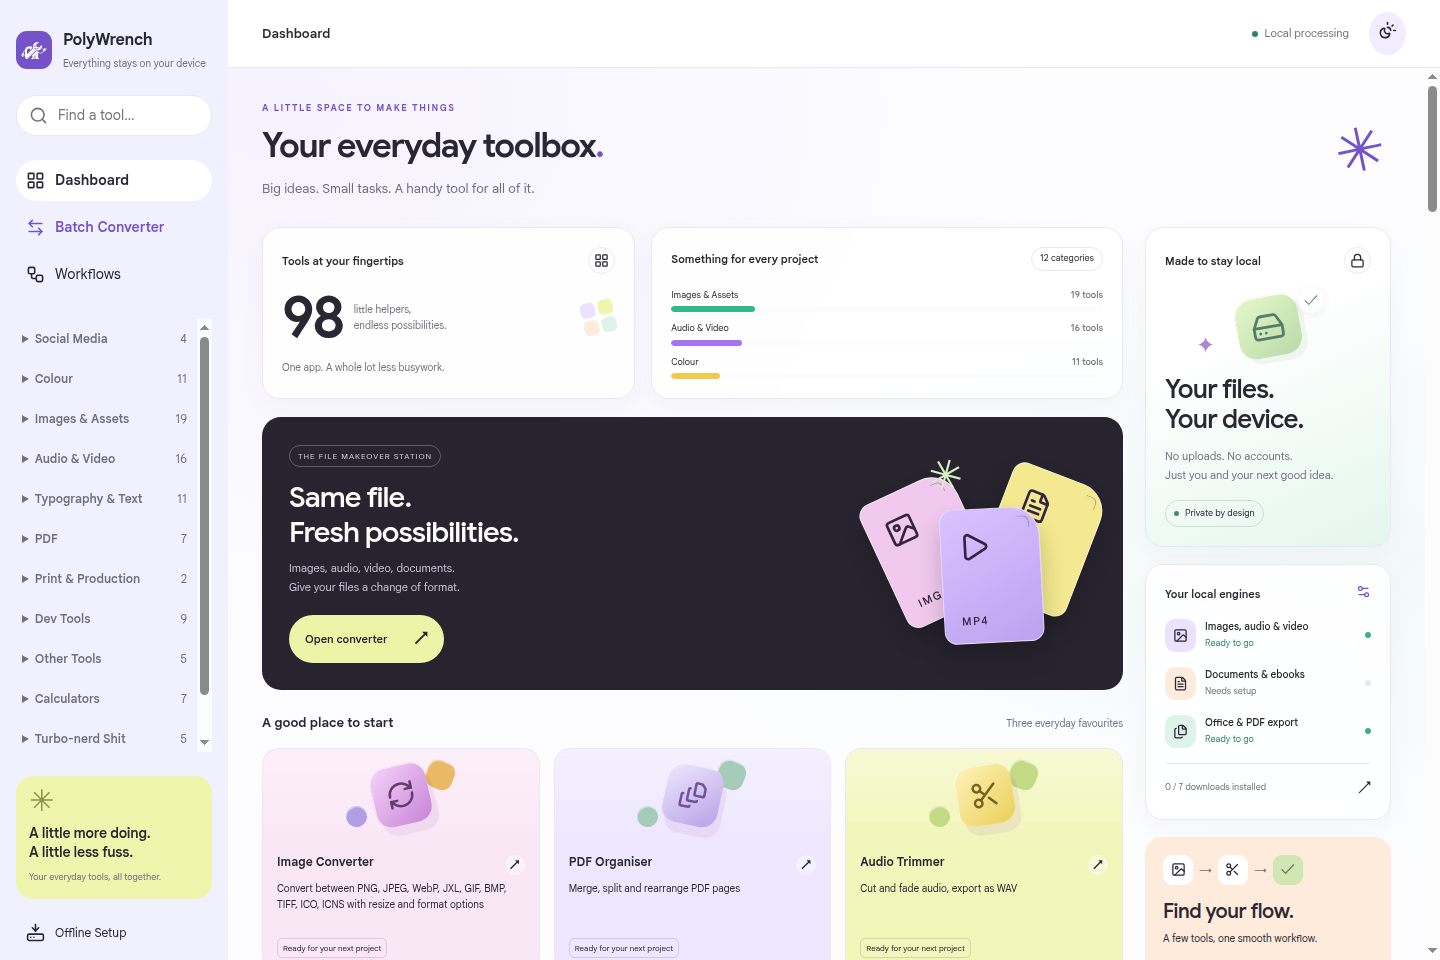
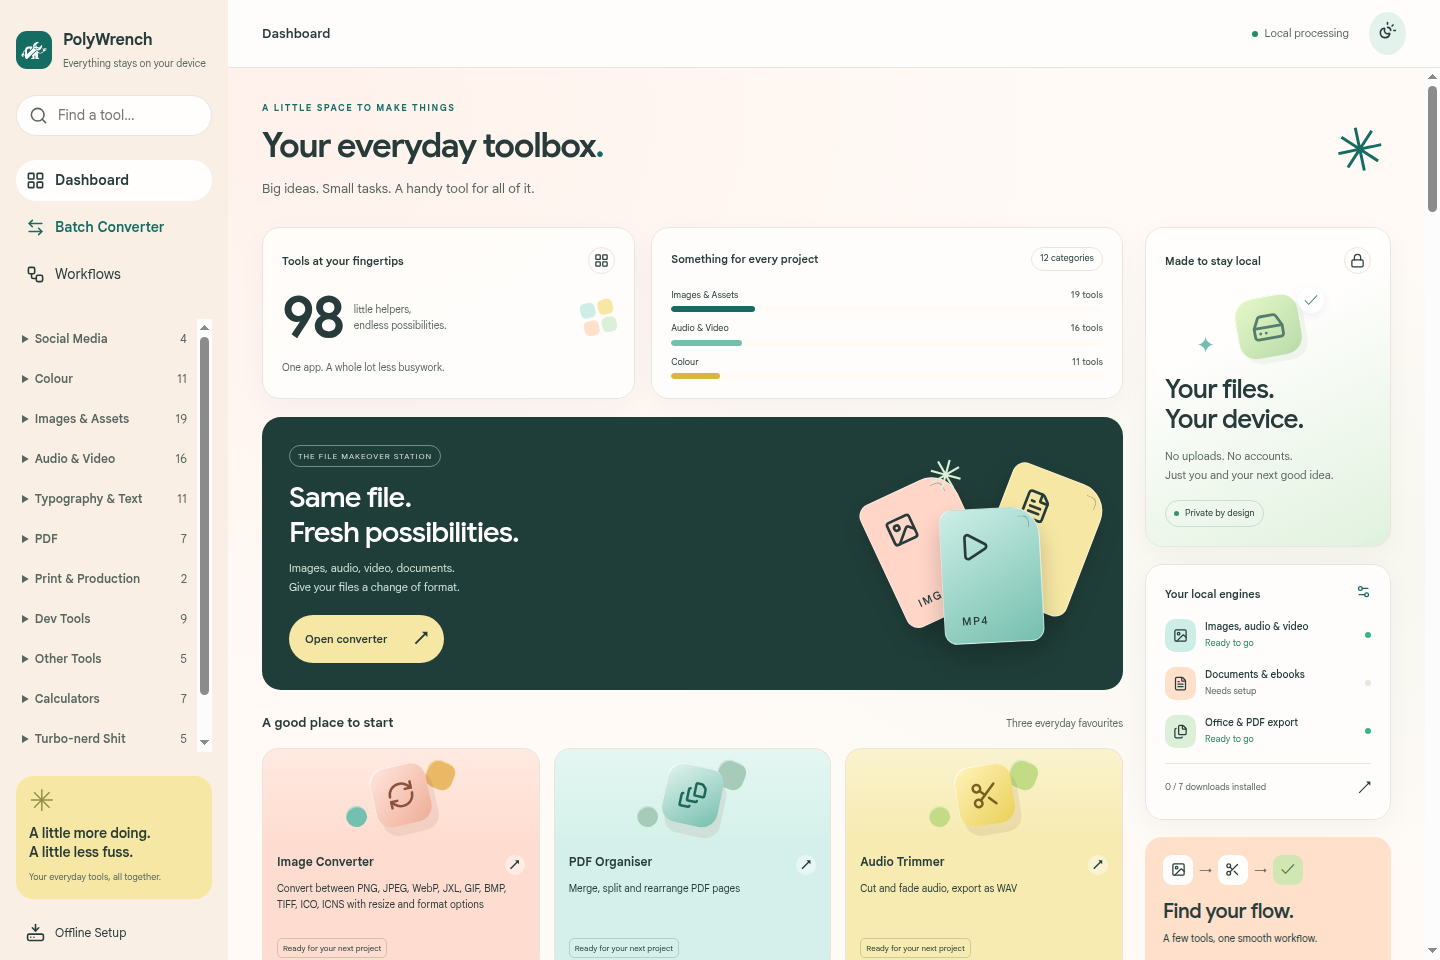
Apply the selected Peach and Teal palette in PolyWrench 0.1.3

diff --git a/app/components/desktop-workspace.css b/app/components/desktop-workspace.css
@@ -1,6 +1,6 @@
 /* Soft surfaces keep the workspace quiet; colour belongs to the tools. */
-:root { --lg-bg: #fdfdff; --lg-panel: #fff; --lg-ink: #292732; --lg-muted: #716f7d; --lg-line: #e9e7ef; --lg-accent: #7353c7; --lg-tint: #f1ecff; --lg-sidebar: #efedff; --lg-purple: #eae2ff; --lg-pink: #f9e2f4; --lg-lime: #f0f5ae; --lg-mint: #def4e9; --lg-peach: #ffebdc; --canon-segment-font: Iosevka, monospace; }
-:root.dark { --lg-bg: #1b1922; --lg-panel: #25222e; --lg-ink: #f2eff8; --lg-muted: #b5afc3; --lg-line: #3a3546; --lg-accent: #c6adff; --lg-tint: #373047; --lg-sidebar: #292538; --lg-purple: #3c3155; --lg-pink: #4a3046; --lg-lime: #42482b; --lg-mint: #2b443b; --lg-peach: #4b382e; }
+:root { --lg-bg: #fffaf6; --lg-panel: #fffefd; --lg-ink: #273c3a; --lg-muted: #57665f; --lg-line: #e9e4dc; --lg-accent: #146c63; --lg-tint: #e4f2ec; --lg-sidebar: #f9ece1; --lg-purple: #cdeee7; --lg-pink: #ffd6c8; --lg-lime: #f6e8a4; --lg-mint: #dbefd9; --lg-peach: #ffe0cb; --canon-segment-font: Iosevka, monospace; }
+:root.dark { --lg-bg: #17211f; --lg-panel: #202c2a; --lg-ink: #f3eee6; --lg-muted: #b6c3bc; --lg-line: #3c4a44; --lg-accent: #8fd3c2; --lg-tint: #293f38; --lg-sidebar: #24302a; --lg-purple: #294b43; --lg-pink: #523c33; --lg-lime: #49462c; --lg-mint: #304638; --lg-peach: #543d30; }
 .lg-app { display: grid; grid-template-columns: 228px minmax(0, 1fr); height: 100dvh; color: var(--lg-ink); background: var(--lg-bg); font-family: system-ui, sans-serif; font-size: 14px; letter-spacing: normal; }
 .lg-app svg { width: 19px; height: 19px; flex-shrink: 0; }
 .lg-app button, .lg-app select, .lg-app input { font: inherit; }
@@ -10,7 +10,7 @@
 .lg-sidebar { display: flex; flex-direction: column; gap: 24px; min-height: 0; padding: 28px 16px 18px; background: var(--lg-sidebar); border-right: 0; }
 .lg-brand { display: flex; gap: 11px; align-items: center; color: var(--lg-ink); text-decoration: none; font-size: 16px; font-weight: 700; }
 .lg-brand small { display: block; font-size: 10px; color: var(--lg-muted); margin-top: 4px; font-weight: 400; }
-.lg-logo { display: grid; place-items: center; width: 36px; height: 38px; border-radius: 11px; background: #7353c7; object-fit: contain; font-size: 24px; }
+.lg-logo { display: grid; place-items: center; width: 36px; height: 38px; border-radius: 11px; background: #146c63; object-fit: contain; font-size: 24px; }
 .lg-search { display: flex; align-items: center; gap: 8px; padding: 10px 12px; background: var(--lg-panel); border: 1px solid var(--lg-line); border-radius: 24px; color: var(--lg-muted); }
 .lg-search input { border: 0; background: transparent; width: 100%; min-width: 0; color: var(--lg-ink); outline-offset: 5px; }
 .lg-primary { display: grid; gap: 6px; }
@@ -128,25 +128,25 @@
 .lg-category-bars strong { font-weight: 500; color: var(--lg-muted); }
 .lg-category-bars progress { display: block; height: 6px; width: 100%; border: 0; border-radius: 6px; overflow: hidden; appearance: none; }
 .lg-category-bars progress::-webkit-progress-bar { background: var(--lg-bg); }
-.lg-category-bars progress::-webkit-progress-value { background: #34b78b; border-radius: 6px; min-width: 8px; }
-.lg-category-bars > div:nth-child(2) progress::-webkit-progress-value { background: #a574ee; }
-.lg-category-bars > div:nth-child(3) progress::-webkit-progress-value { background: #f0c94d; }
-.lg-converter-card { display: flex; position: relative; overflow: hidden; align-items: center; justify-content: space-between; min-height: 250px; padding: 27px; border-radius: 19px; background: #27242f; color: #fff; text-decoration: none; margin-bottom: 26px; }
-.lg-converter-card .lg-small-tag { border-color: #625d6d; color: #d5cfe4; font-size: 8px; letter-spacing: 1px; }
+.lg-category-bars progress::-webkit-progress-value { background: #146c63; border-radius: 6px; min-width: 8px; }
+.lg-category-bars > div:nth-child(2) progress::-webkit-progress-value { background: #75bfae; }
+.lg-category-bars > div:nth-child(3) progress::-webkit-progress-value { background: #d9b73e; }
+.lg-converter-card { display: flex; position: relative; overflow: hidden; align-items: center; justify-content: space-between; min-height: 250px; padding: 27px; border-radius: 19px; background: #203e39; color: #fff; text-decoration: none; margin-bottom: 26px; }
+.lg-converter-card .lg-small-tag { border-color: #6b9185; color: #d1e5da; font-size: 8px; letter-spacing: 1px; }
 .lg-converter-card h2 { font-size: 29px; font-weight: 550; line-height: 1.18; letter-spacing: -.9px; margin: 13px 0 10px; }
-.lg-converter-card p { font-size: 11px; line-height: 1.7; color: #c9c2d6; }
+.lg-converter-card p { font-size: 11px; line-height: 1.7; color: #d1e5da; }
 .lg-converter-copy { position: relative; z-index: 1; }
-.lg-converter-cta { display: flex; align-items: center; justify-content: space-between; width: 155px; background: #eef4a7; border-radius: 24px; padding: 11px 16px; color: #292732; font-size: 11px; font-weight: 600; margin-top: 19px; }
+.lg-converter-cta { display: flex; align-items: center; justify-content: space-between; width: 155px; background: #f6e8a4; border-radius: 24px; padding: 11px 16px; color: #273c3a; font-size: 11px; font-weight: 600; margin-top: 19px; }
 .lg-converter-cta > span { font-size: 17px; }
 .lg-file-art { position: relative; width: 225px; height: 214px; flex-shrink: 0; margin-right: -10px; }
-.lg-art-file { position: absolute; width: 100px; height: 135px; border-radius: 13px 29px 13px 13px; box-shadow: 0 14px 25px #0003; display: flex; flex-direction: column; justify-content: space-between; padding: 21px 17px 14px; color: #332442; border: 1px solid #fff7; }
-.lg-art-file::after { content: ''; position: absolute; top: 8px; right: 9px; width: 12px; height: 12px; border-top: 1px solid #33244255; border-right: 1px solid #33244255; border-radius: 0 7px 0 0; }
+.lg-art-file { position: absolute; width: 100px; height: 135px; border-radius: 13px 29px 13px 13px; box-shadow: 0 14px 25px #0003; display: flex; flex-direction: column; justify-content: space-between; padding: 21px 17px 14px; color: #273c3a; border: 1px solid #fff7; }
+.lg-art-file::after { content: ''; position: absolute; top: 8px; right: 9px; width: 12px; height: 12px; border-top: 1px solid #273c3a55; border-right: 1px solid #273c3a55; border-radius: 0 7px 0 0; }
 .lg-art-file svg { width: 32px; height: 32px; }
 .lg-art-file b { font-size: 11px; font-weight: 500; letter-spacing: 1.5px; }
-.lg-art-file--pink { left: 2px; top: 37px; transform: rotate(-22deg); background: #f2c9ee; }
-.lg-art-file--yellow { left: 106px; top: 27px; transform: rotate(18deg); background: #f4e990; }
-.lg-art-file--purple { left: 61px; top: 66px; transform: rotate(-3deg); background: linear-gradient(150deg, #d8c3ff, #bba2f0); }
-.lg-art-spark { position: absolute; top: -3px; left: 47px; font-size: 42px; color: #d7efc2; transform: rotate(15deg); }
+.lg-art-file--pink { left: 2px; top: 37px; transform: rotate(-22deg); background: #ffd6c8; }
+.lg-art-file--yellow { left: 106px; top: 27px; transform: rotate(18deg); background: #f6e8a4; }
+.lg-art-file--purple { left: 61px; top: 66px; transform: rotate(-3deg); background: linear-gradient(150deg, #cdeee7, #75bfae); }
+.lg-art-spark { position: absolute; top: -3px; left: 47px; font-size: 42px; color: #dbefd9; transform: rotate(15deg); }
 .lg-section-heading { display: flex; align-items: center; justify-content: space-between; gap: 15px; margin-bottom: 17px; }
 .lg-section-heading h2 { font-size: 13px; font-weight: 650; }
 .lg-section-heading > span { font-size: 10px; color: var(--lg-muted); }
@@ -155,11 +155,11 @@
 .lg-quick-card:nth-child(2) { background: var(--lg-purple); }
 .lg-quick-card:nth-child(3) { background: var(--lg-lime); }
 .lg-quick-art { position: relative; height: 92px; display: grid; place-items: center; overflow: hidden; background: linear-gradient(0deg, transparent, #ffffff60); }
-.lg-quick-art > span { display: grid; place-items: center; position: relative; z-index: 1; width: 57px; height: 60px; border-radius: 16px; background: linear-gradient(140deg, #f7d4fa, #c783d6); box-shadow: 5px 10px 0 #a45db31c, inset 1px 1px #fffa; transform: rotate(-13deg); color: #623c72; }
+.lg-quick-art > span { display: grid; place-items: center; position: relative; z-index: 1; width: 57px; height: 60px; border-radius: 16px; background: linear-gradient(140deg, #ffe7de, #efac96); box-shadow: 5px 10px 0 #89533e1c, inset 1px 1px #fffa; transform: rotate(-13deg); color: #89533e; }
 .lg-quick-art svg { width: 30px; height: 30px; }
 .lg-quick-art i { position: absolute; width: 28px; height: 28px; border-radius: 10px; background: #e9b966; transform: rotate(22deg); left: calc(50% + 25px); top: 12px; box-shadow: inset 1px 1px #fff7; }
-.lg-quick-art i:last-child { background: #b29ee4; width: 21px; height: 21px; top: 57px; left: calc(50% - 55px); border-radius: 50%; }
-.lg-quick-card:nth-child(2) .lg-quick-art > span { background: linear-gradient(140deg, #f0e9ff, #b8a1e6); color: #6f5299; transform: rotate(12deg); }
+.lg-quick-art i:last-child { background: #75bfae; width: 21px; height: 21px; top: 57px; left: calc(50% - 55px); border-radius: 50%; }
+.lg-quick-card:nth-child(2) .lg-quick-art > span { background: linear-gradient(140deg, #e4f4ee, #75bfae); color: #1d665b; transform: rotate(12deg); }
 .lg-quick-card:nth-child(2) .lg-quick-art i { background: #a6cbb9; }
 .lg-quick-card:nth-child(3) .lg-quick-art > span { background: linear-gradient(140deg, #fff3bc, #ead057); color: #776020; transform: rotate(-9deg); }
 .lg-quick-card:nth-child(3) .lg-quick-art i { background: #c3db84; }
@@ -167,14 +167,14 @@
 .lg-quick-copy h3 { display: flex; justify-content: space-between; align-items: start; gap: 8px; font-size: 12px; font-weight: 650; }
 .lg-quick-copy h3 > span { display: grid; place-items: center; background: #ffffff70; width: 20px; height: 20px; border-radius: 50%; flex-shrink: 0; }
 .lg-quick-copy p { font-size: 10px; line-height: 1.6; margin-top: 6px; min-height: 48px; }
-.lg-quick-tag { display: inline-block; font-size: 8px; border: 1px solid #8b749744; padding: 3px 5px; border-radius: 5px; margin-top: 9px; }
+.lg-quick-tag { display: inline-block; font-size: 8px; border: 1px solid #47796a44; padding: 3px 5px; border-radius: 5px; margin-top: 9px; }
 .lg-dashboard-rail { display: flex; flex-direction: column; gap: 17px; }
 .lg-local-widget { background: linear-gradient(155deg, var(--lg-panel) 35%, var(--lg-mint)); }
 .lg-local-illustration { position: relative; height: 85px; display: grid; place-items: center; margin-top: 10px; }
 .lg-local-illustration > span { width: 64px; height: 61px; display: grid; place-items: center; color: #567d6b; background: linear-gradient(145deg, #e6f8c9, #b8dba9); transform: rotate(-10deg); border-radius: 18px; box-shadow: 5px 6px #6f986d15, inset 1px 1px #fff; }
 .lg-local-illustration svg { width: 34px; height: 34px; }
 .lg-local-illustration > i { position: absolute; right: 47px; top: 3px; display: grid; place-items: center; width: 26px; height: 26px; border-radius: 50%; background: #fff; color: #4f866b; font-style: normal; box-shadow: 0 3px 10px #4b594b15; }
-.lg-local-illustration > b { position: absolute; left: 31px; bottom: 6px; font-size: 23px; font-weight: 400; color: #aa8acd; }
+.lg-local-illustration > b { position: absolute; left: 31px; bottom: 6px; font-size: 23px; font-weight: 400; color: #75bfae; }
 .lg-local-widget h2 { font-size: 26px; line-height: 1.15; letter-spacing: -.8px; font-weight: 550; margin-top: 6px; }
 .lg-local-widget p { font-size: 11px; line-height: 1.7; color: var(--lg-muted); margin-top: 12px; }
 .lg-private-badge { display: inline-flex; align-items: center; gap: 6px; font-size: 9px; border: 1px solid #7da78a50; border-radius: 20px; padding: 6px 8px; margin-top: 15px; }
@@ -242,7 +242,7 @@ html:root {
   --ring: var(--lg-accent);
 }
 .lg-main .sub-ed { --canon-frame: 2px; font-family: system-ui, sans-serif; }
-.lg-main .sub-cells { border-radius: 13px; background: var(--lg-panel); box-shadow: 0 4px 18px #2927320d; }
+.lg-main .sub-cells { border-radius: 13px; background: var(--lg-panel); box-shadow: 0 4px 18px #273c3a0d; }
 .lg-main .sub-cell { border-radius: 9px; }
 .lg-main .sub-ed-rail { border-radius: 17px; overflow: hidden; }
 .lg-main .sub-cell[aria-pressed="true"] { background: var(--lg-purple); color: var(--lg-accent); }

diff --git a/app/components/desktop-effects.css b/app/components/desktop-effects.css
@@ -17,12 +17,12 @@ html:root {
   --pw-font-body: 'Google Sans', sans-serif;
   --canon-font: var(--pw-font-body);
   --pw-glass-panel: color-mix(in srgb, var(--lg-panel) 83%, transparent);
-  --pw-glass-shadow: 0 8px 28px rgb(73 52 116 / 4%);
+  --pw-glass-shadow: 0 8px 28px rgb(32 62 57 / 4%);
 }
 html:root.dark { --pw-glass-shadow: 0 10px 30px rgb(0 0 0 / 12%); }
 .lg-app { font-family: var(--pw-font-body); background: var(--lg-bg); }
 .lg-app .lg-main {
-  background: radial-gradient(ellipse at 4% 5%, rgb(193 166 249 / 12%), transparent 48%), radial-gradient(ellipse at 96% 55%, rgb(152 218 193 / 10%), transparent 48%);
+  background: radial-gradient(ellipse at 4% 5%, color-mix(in srgb, var(--lg-pink) 24%, transparent), transparent 48%), radial-gradient(ellipse at 96% 55%, color-mix(in srgb, var(--lg-mint) 22%, transparent), transparent 48%);
 }
 .lg-app :is(h1, h2, h3), .lg-brand, .lg-total-line > strong { font-family: var(--pw-font-display); font-optical-sizing: auto; }
 .lg-app .lg-brand { letter-spacing: -.35px; }
@@ -62,7 +62,7 @@ html:root.dark { --pw-glass-shadow: 0 10px 30px rgb(0 0 0 / 12%); }
 .lg-quick-card:nth-child(3) { animation-delay: 175ms; }
 .lg-brand:hover .lg-logo { animation: pw-wave 550ms ease-out; }
 .lg-primary a, .lg-tool-nav a, .lg-button, .lg-quick-card, .lg-quick-art > span, .lg-art-file, .lg-workflow-widget { transition: transform 180ms ease, box-shadow 180ms ease, background-color 180ms ease; }
-.lg-quick-card:hover, .lg-workflow-widget:hover { transform: translateY(-3px); box-shadow: 0 9px 22px rgb(73 52 116 / 8%); }
+.lg-quick-card:hover, .lg-workflow-widget:hover { transform: translateY(-3px); box-shadow: 0 9px 22px rgb(32 62 57 / 8%); }
 .lg-quick-card:hover .lg-quick-art > span { transform: rotate(0) translateY(-4px); }
 .lg-converter-card:hover .lg-art-file--pink { transform: rotate(-25deg) translate(-3px, -3px); }
 .lg-converter-card:hover .lg-art-file--yellow { transform: rotate(21deg) translate(2px, -3px); }

diff --git a/app/components/tool-workspace.css b/app/components/tool-workspace.css
@@ -64,13 +64,13 @@
 .pw-tool-stage .canon-button--filled { background: var(--lg-accent); color: var(--lg-panel); }
 .pw-tool-stage .canon-segmented { border-radius: 11px; gap: 4px; padding: 4px; background: var(--lg-tint); }
 .pw-tool-stage .canon-button--segment { border-radius: 8px; background: transparent; }
-.pw-tool-stage .canon-button--segment[aria-checked="true"] { background: var(--lg-panel); color: var(--lg-accent); box-shadow: 0 1px 4px #2927320f; }
+.pw-tool-stage .canon-button--segment[aria-checked="true"] { background: var(--lg-panel); color: var(--lg-accent); box-shadow: 0 1px 4px #273c3a0f; }
 .pw-tool-stage .canon-drop-zone { border: 1px dashed color-mix(in srgb, var(--lg-accent) 45%, transparent); border-radius: 15px; overflow: hidden; background: var(--lg-panel); }
 .pw-tool-stage .canon-drop-zone-target { background: color-mix(in srgb, var(--pw-tool-tint) 45%, var(--lg-panel)); border-radius: 14px; color: var(--lg-accent); }
 .pw-tool-stage .canon-canvas-content { border-radius: 16px; overflow: hidden; }
 .pw-tool-stage .canon-menu-cell, .pw-tool-stage .canon-number-field, .pw-tool-stage .canon-text-field { border-radius: 8px; }
 .pw-tool-stage .canon-status { border-radius: 9px; font-family: system-ui, sans-serif; }
-.pw-tool-stage .canon-split-footer { border-radius: 17px; background: var(--lg-panel); border: 1px solid var(--lg-line); box-shadow: 0 5px 22px #2927320a; padding: 6px; }
+.pw-tool-stage .canon-split-footer { border-radius: 17px; background: var(--lg-panel); border: 1px solid var(--lg-line); box-shadow: 0 5px 22px #273c3a0a; padding: 6px; }
 .pw-tool-stage .canon-split-footer .canon-grid { border-radius: 12px; overflow: hidden; }
 .pw-tool-stage .dt-canon-edge { background: var(--lg-panel); border: 1px solid var(--lg-line); border-radius: 12px; }
 .pw-tool-footer { display: flex; justify-content: space-between; gap: 15px; color: var(--lg-muted); font-size: 9px; }

diff --git a/README.md b/README.md
@@ -16,7 +16,7 @@ PolyWrench combines Delphi’s open-source toolkit with a new desktop interface 
 
 - **A colourful workspace:** a pastel dashboard with live engine-readiness widgets, quick tool cards, category navigation, search and light/dark themes.
 - **Consistent tool screens:** rounded settings panels, clean controls, shared typography and individual tool headers.
-- **A softer finish:** local Google Sans fonts, frosted surfaces and subtle entrance/hover motion, with reduced-motion and reduced-transparency support.
+- **A softer finish:** Peach & Teal colors, local Google Sans fonts, frosted surfaces and subtle entrance/hover motion, with reduced-motion and reduced-transparency support.
 - **Batch conversion:** select or drop multiple files, choose an output format and folder, select standard/high quality, follow per-file status, cancel a batch and reveal completed outputs.
 - **Preserved originals:** conversions create separate outputs. Existing filenames receive a numbered suffix instead of being overwritten.
 - **Offline setup:** explicitly download conversion engines, the document tool’s WASM engine and speech/background-removal models. Downloads have pinned versions, expected sizes and SHA-256 verification. Interrupted setup can be retried.
@@ -46,10 +46,10 @@ PolyWrench combines Delphi’s open-source toolkit with a new desktop interface 
 Quit PolyWrench completely, then install the newer package over the current version:
 
 ```bash
-sudo apt install ./release/PolyWrench-0.1.2-linux-amd64.deb
+sudo apt install ./release/PolyWrench-0.1.3-linux-amd64.deb
 ```
 
-Reopen PolyWrench from Applications. Changing source files does not update an already installed copy; rebuild and install a new package, or quit the installed app and use `npm run desktop` from the project directory to preview a built local checkout. The 0.1.2 package includes the redesigned dashboard, tool workspaces, updated mascot, offline Google Sans fonts, frosted surfaces and restrained animations. Reduced-motion and reduced-transparency preferences are respected.
+Reopen PolyWrench from Applications. Changing source files does not update an already installed copy; rebuild and install a new package, or quit the installed app and use `npm run desktop` from the project directory to preview a built local checkout. The 0.1.3 package includes the Peach & Teal palette, redesigned dashboard, tool workspaces, updated mascot, offline Google Sans fonts, frosted surfaces and restrained animations. Reduced-motion and reduced-transparency preferences are respected.
 
 ## Run from source
 

diff --git a/docs/VALIDATION.md b/docs/VALIDATION.md
@@ -1,3 +1,10 @@
+# Peach & Teal — PolyWrench 0.1.3
+
+- Applied the selected palette to the dashboard, sidebar, converter artwork, tool controls and editor chrome. Dark mode uses matching teal, peach and gold surfaces.
+- Text/background token checks passed the 4.5:1 contrast threshold in both themes. Secondary text was slightly darkened from the preview for readability.
+- Production build, focused lint and the 104-route Electron smoke passed on Ubuntu. Light, dark and compact screenshots were inspected; the harness now waits for the selected navigation background to finish changing before theme screenshots.
+- Ubuntu AppImage/deb packages were rebuilt as 0.1.3. Package inspection confirmed the version, selected light/dark colors and bundled Google Sans font bytes.
+
 # Google Sans update — PolyWrench 0.1.2
 
 - Google Sans upright and italic variable fonts are bundled locally with their full OFL notice. Replaced interface font assets were removed.
